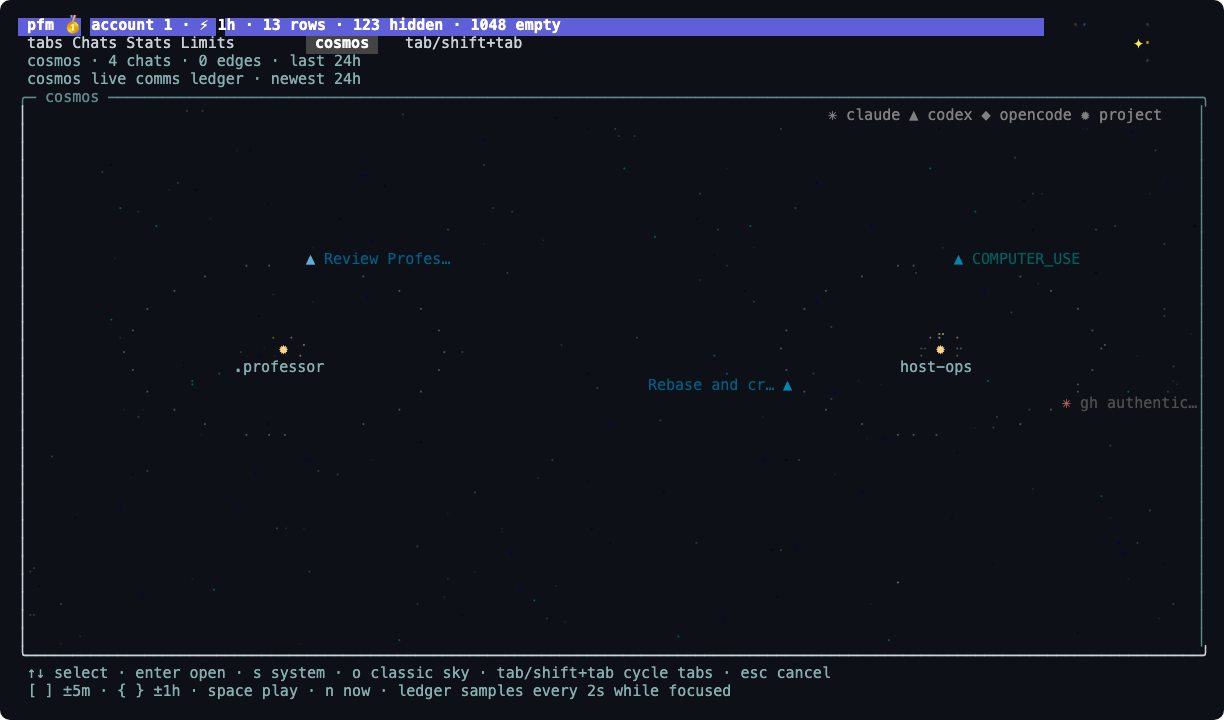
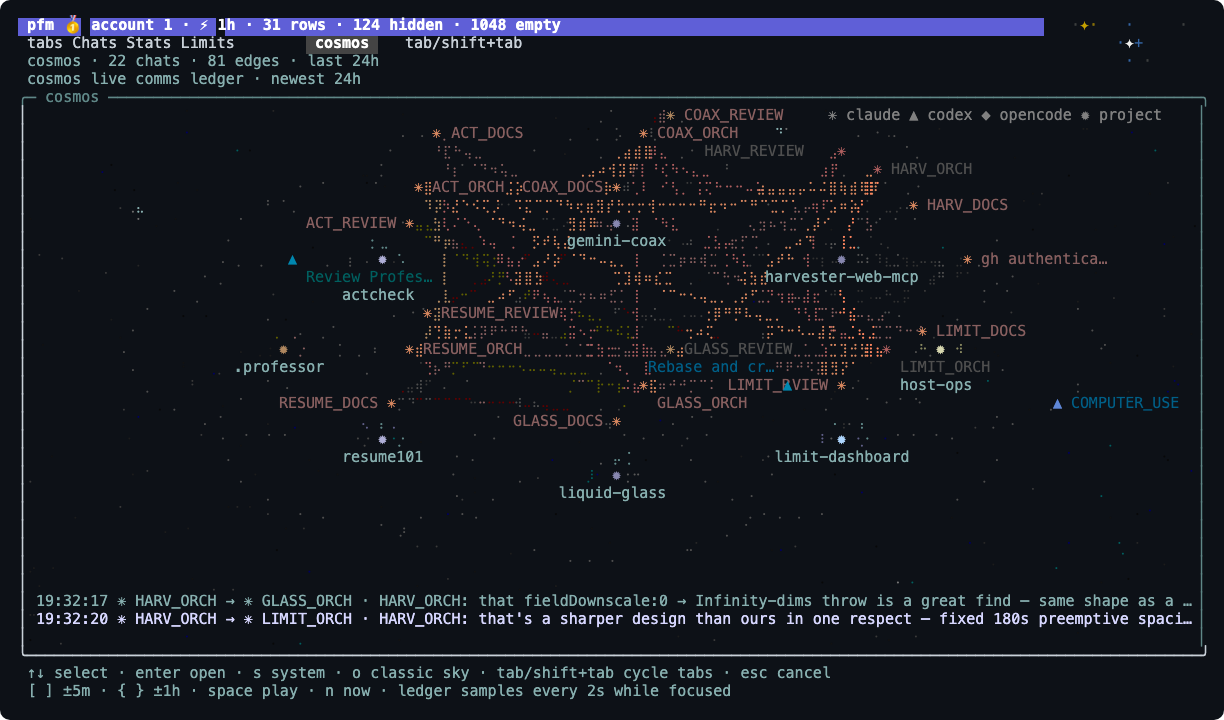
docs(readme): recapture the cosmos tab with a busy fleet
Six projects, an orchestrator in each, two workers per orchestrator —
22 chats and 81 comms-ledger edges in the window. The caption now
describes the busy sky instead of the earlier quiet capture.

Claude-Session: https://claude.ai/code/session_01MvZDBv44JgVMdK48hb88yL

diff --git a/README.md b/README.md
@@ -111,9 +111,12 @@ The lookup never blocks or writes into the active picker frame.
 > sky itself. Stars take their colour from the hour's traffic and cool over the hours after
 > their last message, so a busy project burns blue-white. When chats talk to each other the sky
 > draws an edge between them, read from a durable comms ledger — so an edge is a fact rather
-> than a guess. The capture above is a quiet moment: four chats, no traffic, no edges. `↑↓` rings a chat
-> with a reticle and `enter` opens it; `s` focuses one project's system; `o` collapses the
-> hierarchy back to one shared ring. The chronoscope replays the last 24h (`[ ]` ±5m, `{ }` ±1h,
+> than a guess. The capture above is a busy sky: six projects with an orchestrator seated in
+> each, every orchestrator having spawned two workers of its own — 22 chats and 81 edges in the
+> window, the moons risen at their parents' angles, and the ticker at the bottom scrolling the
+> ledger message by message. `↑↓` rings a chat with a reticle and `enter` opens it; `s` focuses
+> one project's system; `o` collapses the hierarchy back to one shared ring. The chronoscope
+> replays the last 24h (`[ ]` ±5m, `{ }` ±1h,
 > `space` plays at 60×, `n` returns to now) — and a chat that is dead now still renders as the
 > ghost it was back then.
 
